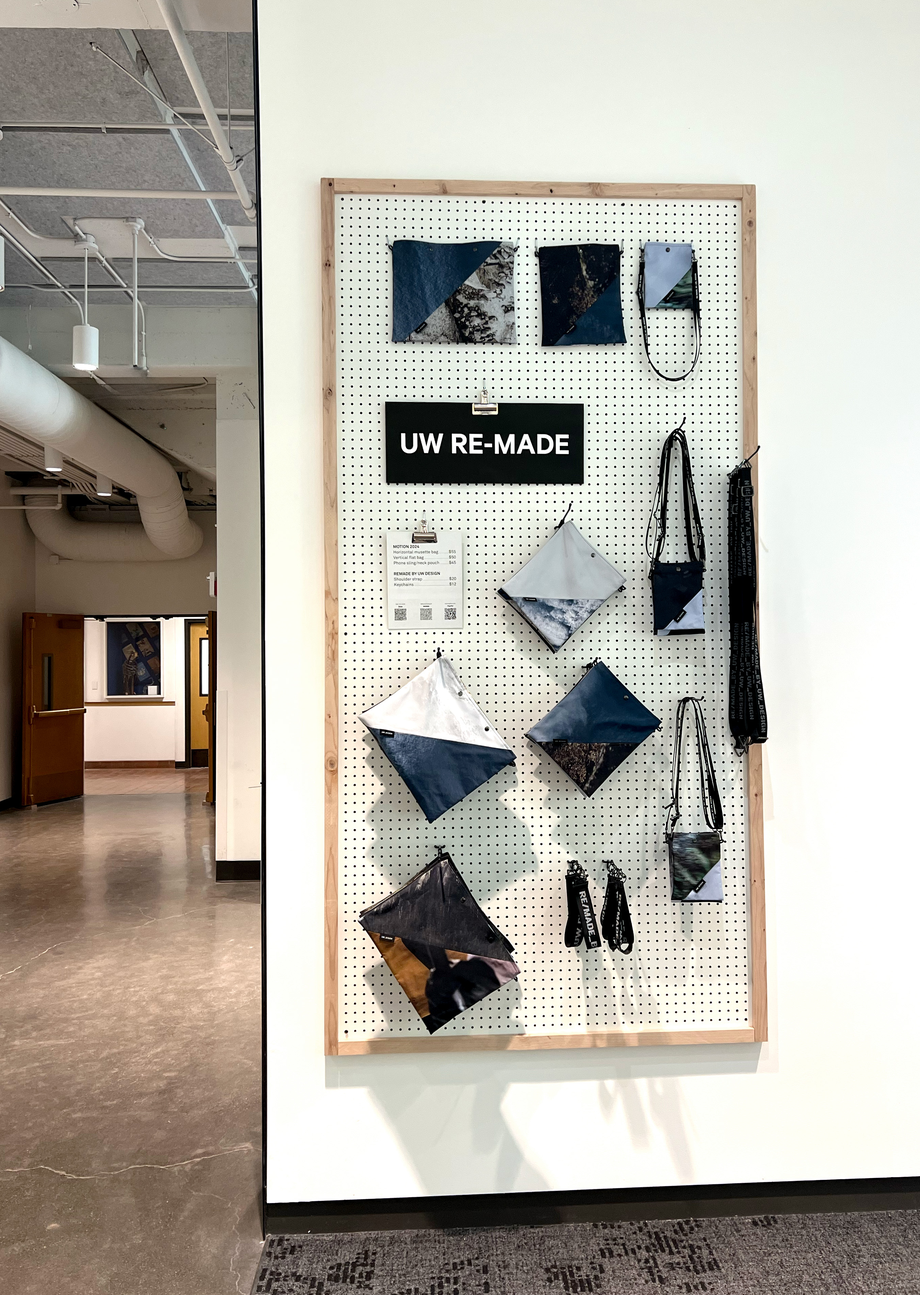
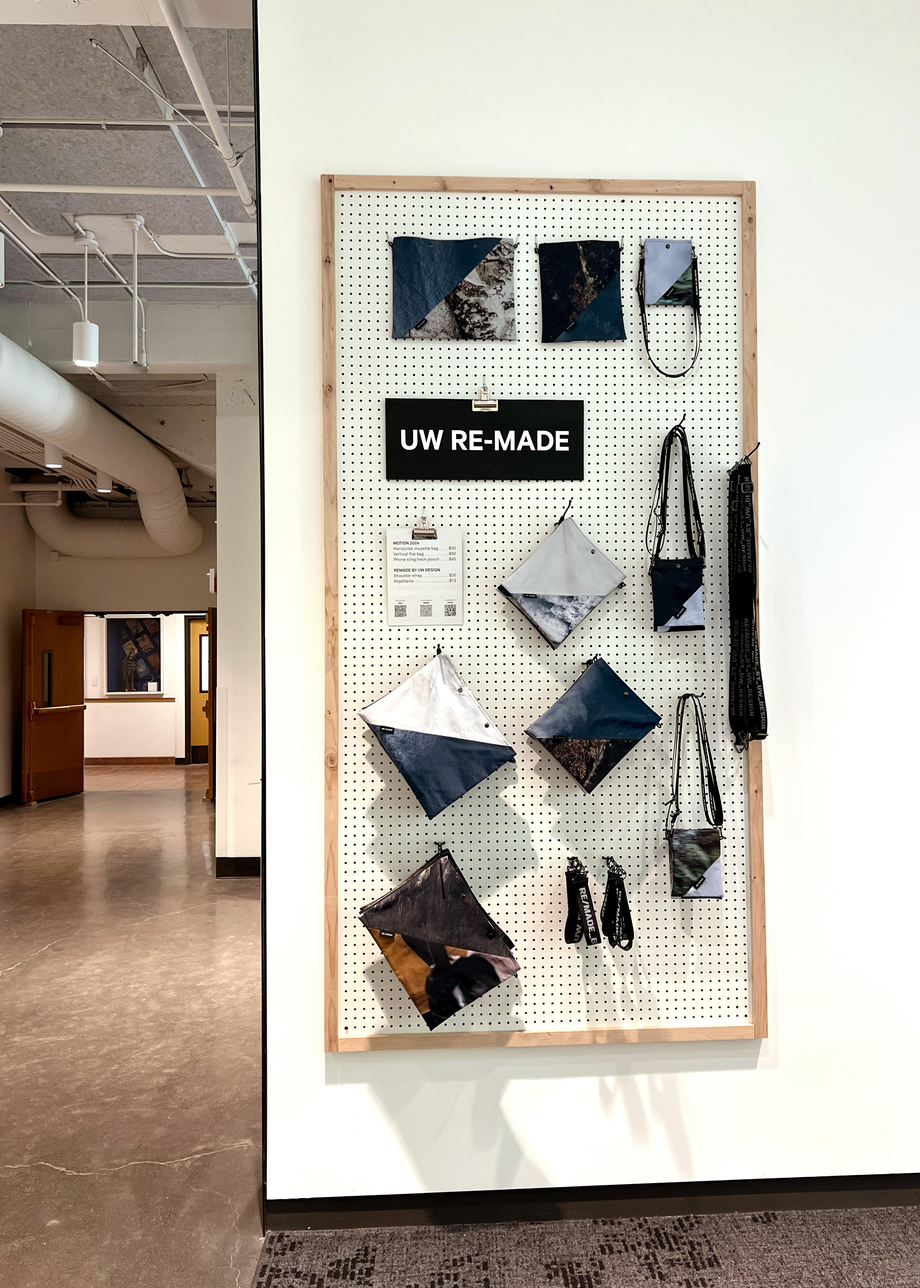
motion updates

diff --git a/src/components/project-pages/Motion.js b/src/components/project-pages/Motion.js
@@ -20,7 +20,29 @@ export default function Motion() {
             altText: "boots standing on a balance board"  
         }
     ]
+
+    const wallImages = [
+        {
+            imageTitle: "remadefront.jpg",
+            altText: "sketched of kettle variations"
+        },
+        {
+            imageTitle: "remadewallwithperson.jpg",
+            altText: "paper prototype kettle variations"  
+        }
+    ]
     
+    const personImages = [
+        {
+            imageTitle: "remadeonfront.jpg",
+            altText: "sketched of kettle variations"
+        },
+        {
+            imageTitle: "remadeonback.jpg",
+            altText: "paper prototype kettle variations"  
+        }
+    ]
+
     const researchImages2 = [
         {
             imageTitle: "Benefits-of-Balance-Board-for-Physical--Mental-Health_3da1e39cd1b.jpg",
@@ -61,14 +83,13 @@ export default function Motion() {
 
                 <FullWidthImage project="Motion" imageName="motionequation.gif" altText="A image showing industrial textile waste added to waste retail banners equals different bags" />
 
-                <SectionHeader text="RESEARCH" />
-                <FullWidthImage project="Beam" imageName="icons.jpg" />
-                <Paragraph text={"Balance boards have several health benefits including increasing coordination, strengthening leg muscles, helping injury recovery, and improving posture. However, users can’t easily track their time balancing, it’s difficult to track progress over time, boards are difficult to store when not in use, aesthetics rarely blend well with home interiors, and it can be difficult to come up with new workout ideas. These pain points were seen as opportunities to enhance the user experience of balance boards using new technology and innovative design."} />
-                <TwoColumnImageLayout project="Beam" imageData={researchImages1} />
-                <TwoColumnImageLayout project="Beam" imageData={researchImages2} />
-
+                <SectionHeader text="SHOP" />
+                <TwoColumnImageLayout project="Motion" imageData={wallImages} />
+                <Paragraph text={"The project’s display in the ‘Shop the Show’ section of the 2024 UW Design Show at the Jacob Lawrence Gallery, where bags were available for sale."} />
+               
                 <SectionHeader text="INSPIRATION" />
-                <Paragraph text="Sustainable — Minimal — Elegant — Convertible" />
+                <TwoColumnImageLayout project="Motion" imageData={personImages} />
+                
                 <FullWidthImage project="Beam" imageName="collage-other-inspiration.jpg" altText="collage of colorful arched hallways, terazzo materials, and smart mirrors"/>
 
                 <SectionHeader text="IDEATION SKETCHING" />
